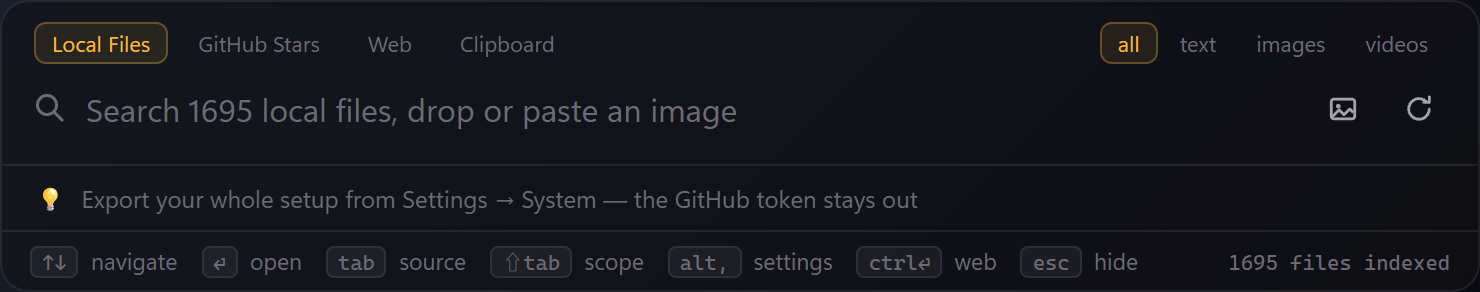
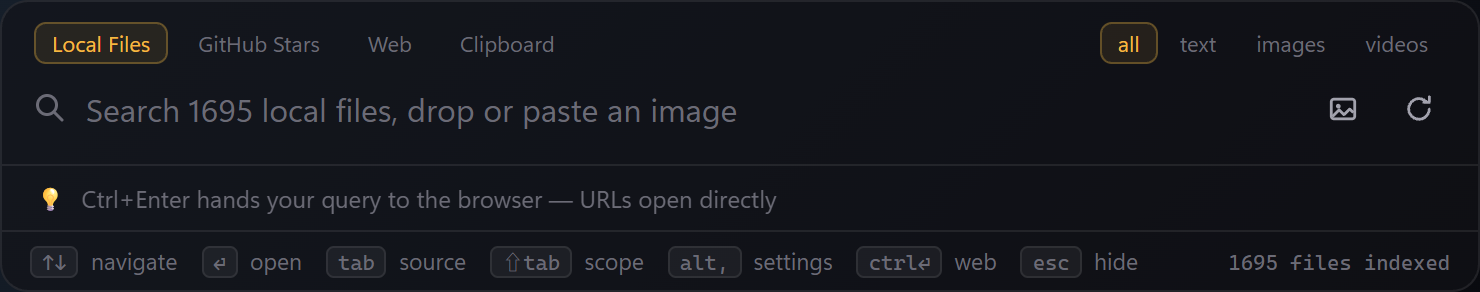
site: cover every feature, not just the photogenic ones
An audit against the README found 12 features the tour never mentioned,
including two of the bigger ones: cross-language retrieval and copied
images in the clipboard history. Those two got cards with their own
screenshots. The remaining ten (hybrid retrieval, frecency, file
actions, updates, the bilingual UI, scanned PDFs, the browser hand-off,
multi-monitor summon, settings export, and the model mirror fallback)
became a compact two-column list, because a screenshot each would have
padded the page without explaining any of them better.

32 features now trace to something on the page.

Changed region(s): [[0.0622, 0.6473, 0.6216, 0.7397]]

diff --git a/docs/content.js b/docs/content.js
@@ -25,6 +25,8 @@ window.CONTENT = {
     "g3.sub": "Some answers don't need search results. <kbd>Enter</kbd> copies whatever comes up.",
     "g4.title": "Everyday feel",
     "g4.sub": "The small stuff that decides whether a launcher survives its first week.",
+    "rest.title": "The rest of it",
+    "rest.sub": "Everything else magpie does, without a screenshot each.",
     "g5.title": "Why the privacy claims hold up",
     "close.title": "Press a hotkey. Find the thing.",
     "close.docs": "Full documentation",
@@ -53,6 +55,8 @@ window.CONTENT = {
     "g3.sub": "有些答案根本不用搜。<kbd>Enter</kbd> 直接复制。",
     "g4.title": "日常手感",
     "g4.sub": "决定一个启动器能不能活过第一周的那些小事。",
+    "rest.title": "剩下这些",
+    "rest.sub": "magpie 还会做的事，不用每条都配张图。",
     "g5.title": "这些隐私说法凭什么站得住",
     "close.title": "按下快捷键，找到那个东西。",
     "close.docs": "完整文档",
@@ -124,6 +128,18 @@ window.FEATURES = {
       },
     },
     {
+      img: "clip-image.png",
+      tag: "Copied images",
+      en: {
+        t: "Screenshots you copied count too",
+        d: "Anything you copy as an image lands in the history with a thumbnail. Find it later by describing what was on screen, the same way you search your image files.",
+      },
+      zh: {
+        t: "复制的截图也在里面",
+        d: "以图片形式复制的东西会带缩略图进历史。之后描述一下当时屏幕上是什么就能找回来，和搜图片文件是同一套。",
+      },
+    },
+    {
       img: "videos.png",
       tag: "Video shots",
       en: {
@@ -171,6 +187,18 @@ window.FEATURES = {
       zh: {
         t: "……以及视频里的文字",
         d: "同一个引擎，逐个镜头帧地读。字幕、幻灯片、别人屏幕共享里的代码，全都能搜到，点开就从文字出现的那一刻开始播。",
+      },
+    },
+    {
+      img: "crosslang.png",
+      tag: "Cross-language",
+      en: {
+        t: "Ask in one language, match another",
+        d: "Search in Chinese and English READMEs come back, or the other way round. The embedding model covers 100+ languages, so you don't have to remember which language you read something in.",
+      },
+      zh: {
+        t: "中文提问，英文命中",
+        d: "用中文搜，英文 README 照样出得来，反过来也一样。嵌入模型覆盖 100 多种语言，你不用记当初看的是哪种语言写的。",
       },
     },
     {
@@ -250,6 +278,33 @@ window.FEATURES = {
       },
     },
   ],
+  // Chapter 05: everything that doesn't need a screenshot to explain.
+  rest: {
+    en: [
+      ["Hybrid retrieval", "SQLite FTS5 keyword search and local embeddings, merged with reciprocal rank fusion. Long files are chunked, so a sentence on page 100 still surfaces."],
+      ["It learns your habits", "Results you actually open drift upward over time. The stats are local and decay, and they never beat a better match."],
+      ["Files come with next steps", "<kbd>Ctrl+C</kbd> copies a hit's path. <kbd>Ctrl+Shift+C</kbd> puts the file itself on the clipboard, ready to paste as an attachment."],
+      ["Updates that find you", "magpie checks at launch and once a day. A pending release shows a red dot on the tray icon; installing is still your call."],
+      ["English and 简体中文", "The whole interface, tray menu included. Follows your OS by default, switchable in settings."],
+      ["Scanned PDFs", "A separate switch turns OCR loose on PDF pages that have no text layer. Off by default, since big scans take a while."],
+      ["Straight to the browser", "<kbd>Ctrl+Enter</kbd> hands your text to the default browser. URLs open, everything else becomes a web search."],
+      ["Multi-monitor", "The palette shows up on whichever display your cursor is on."],
+      ["Settings travel", "Export the whole setup to one JSON and import it on another machine. Your GitHub token stays behind."],
+      ["Models even behind a firewall", "Switch to hf-mirror.com in one click. If Hugging Face and the mirror are both unreachable, magpie falls back to its own release assets."],
+    ],
+    zh: [
+      ["混合检索", "SQLite FTS5 关键词加本地向量，用 RRF 融合排名。长文件分块存，第 100 页的一句话照样能被搜到。"],
+      ["越用越懂你", "真正被打开的结果会慢慢往上走。统计只在本地、随时间衰减，也压不过更匹配的结果。"],
+      ["文件命中带后续动作", "<kbd>Ctrl+C</kbd> 复制路径，<kbd>Ctrl+Shift+C</kbd> 把文件本体放上剪贴板，粘出去就是附件。"],
+      ["更新会自己找上门", "启动时查一次，之后每天查一次。有新版托盘图标亮红点，装不装还是你说了算。"],
+      ["English 和简体中文", "整个界面连托盘菜单都有。默认跟随系统，设置里能切。"],
+      ["扫描版 PDF", "单独一个开关，专门对付没有文字层的 PDF 页面。默认关着，大部头扫描件比较耗时。"],
+      ["直接去浏览器", "<kbd>Ctrl+Enter</kbd> 把输入交给默认浏览器。是网址就打开，不是就变成网页搜索。"],
+      ["多显示器", "浮窗出现在你鼠标所在的那块屏幕上。"],
+      ["配置带着走", "整套设置导出成一个 JSON，换台机器导进去。GitHub token 不会跟着走。"],
+      ["模型在墙内也能下", "一键切到 hf-mirror.com。要是 Hugging Face 和镜像都连不上，magpie 会回落到自己的 Release 资产。"],
+    ],
+  },
   g5: {
     en: [
       "<b>No full-disk scanning.</b> magpie only reads folders you added yourself. It respects .gitignore, skips hidden files, and won't follow a symlink out of the folder you chose.",

diff --git a/docs/index.html b/docs/index.html
@@ -99,9 +99,18 @@
         <div class="rows" id="g4"></div>
       </section>
 
-      <section class="chapter privacy">
+      <section class="chapter">
         <header class="chapter-head">
           <span class="num">05</span>
+          <h2 data-i18n="rest.title">The rest of it</h2>
+          <p data-i18n="rest.sub">Everything else magpie does, without a screenshot each.</p>
+        </header>
+        <dl class="rest" id="rest"></dl>
+      </section>
+
+      <section class="chapter privacy">
+        <header class="chapter-head">
+          <span class="num">06</span>
           <h2 data-i18n="g5.title">Why the privacy claims hold up</h2>
         </header>
         <ul class="claims" id="g5"></ul>

diff --git a/docs/style.css b/docs/style.css
@@ -438,6 +438,29 @@ main {
   transform: none;
 }
 
+/* ---------- the rest: compact two-column definition list ---------- */
+.rest {
+  display: grid;
+  grid-template-columns: repeat(auto-fit, minmax(400px, 1fr));
+  gap: 4px 48px;
+  margin: 0;
+}
+.rest-item {
+  padding: 18px 0;
+  border-top: 1px solid var(--line-soft);
+}
+.rest dt {
+  font-size: 15.5px;
+  font-weight: 600;
+  margin-bottom: 5px;
+}
+.rest dd {
+  margin: 0;
+  color: var(--dim);
+  font-size: 14.5px;
+  line-height: 1.6;
+}
+
 /* ---------- privacy ---------- */
 .privacy .claims {
   list-style: none;

diff --git a/docs/site.js b/docs/site.js
@@ -34,6 +34,12 @@ function renderRows(lang) {
       )
       .join("");
   }
+  const rest = document.getElementById("rest");
+  if (rest) {
+    rest.innerHTML = window.FEATURES.rest[lang]
+      .map(([term, desc]) => `<div class="rest-item reveal"><dt>${term}</dt><dd>${desc}</dd></div>`)
+      .join("");
+  }
   const claims = document.getElementById("g5");
   if (claims) {
     claims.innerHTML = window.FEATURES.g5[lang]
